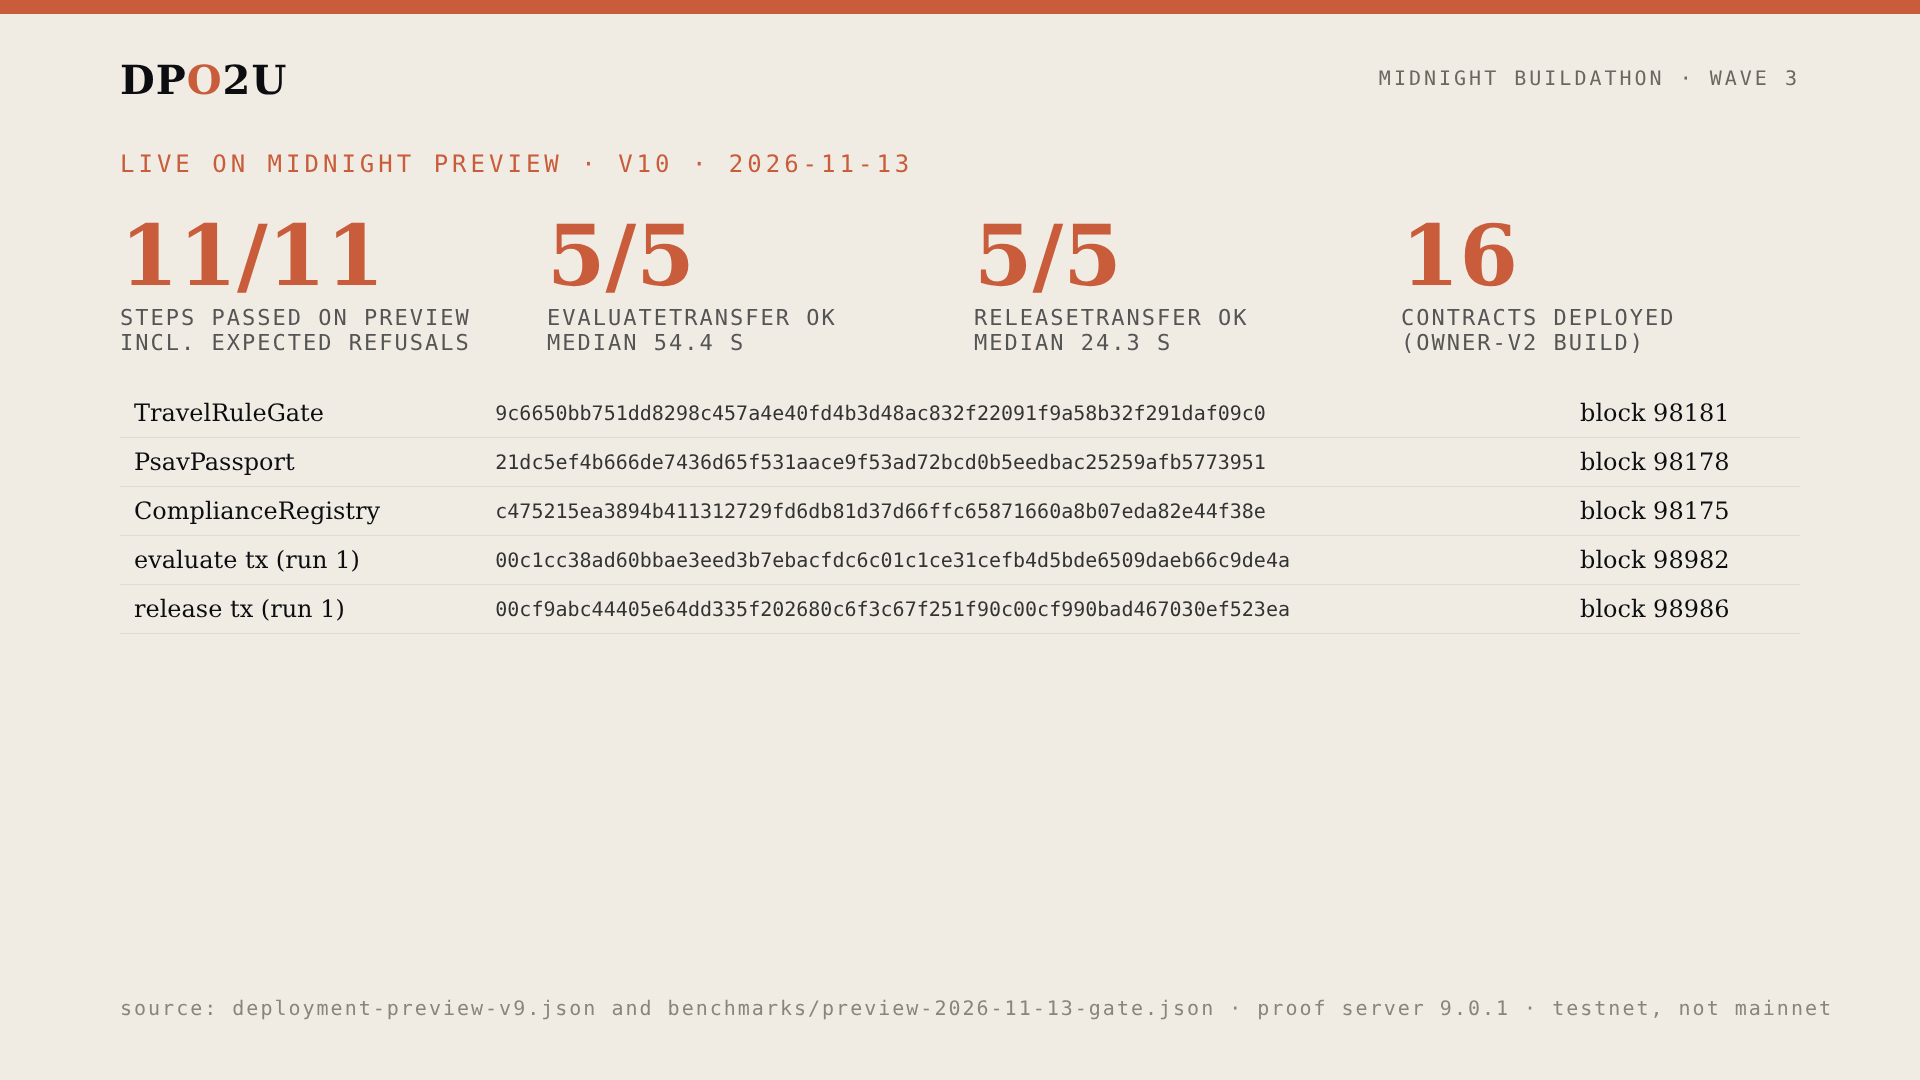
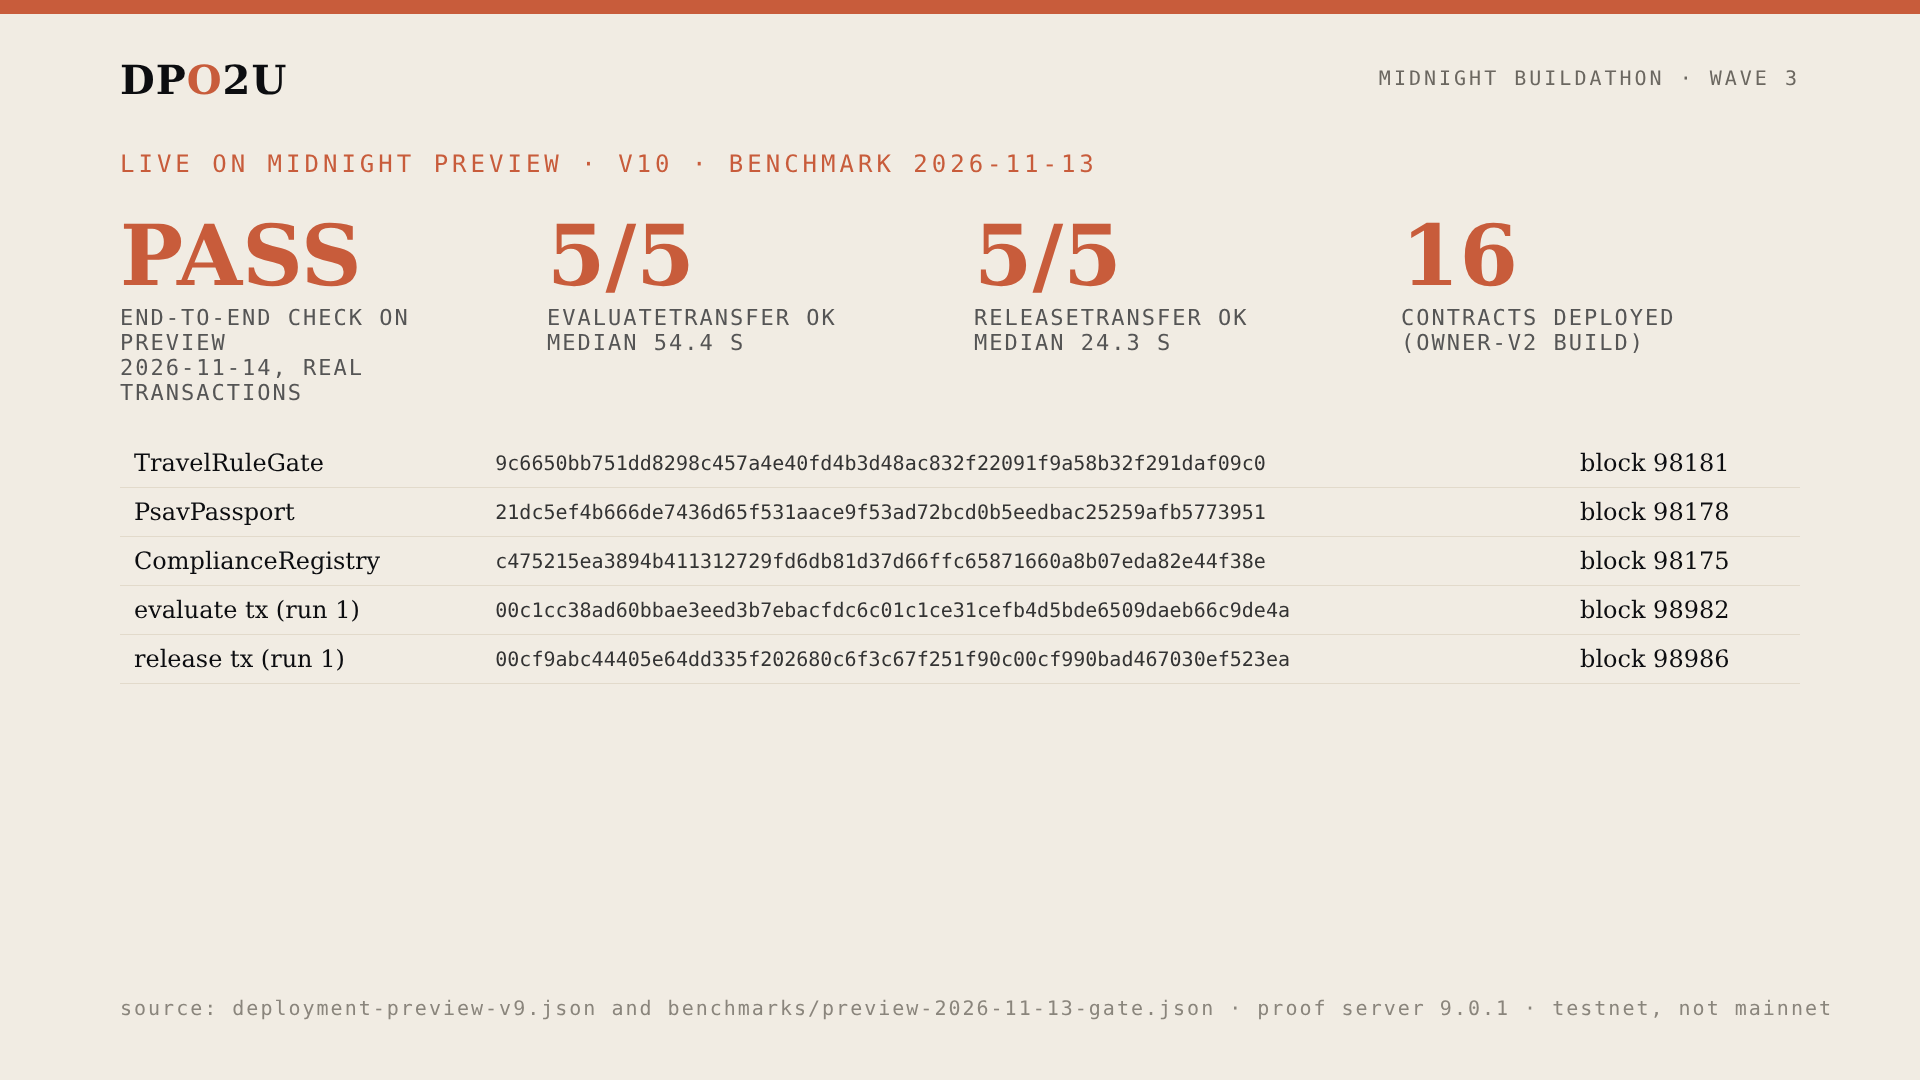
Add live-run slide and video scenes
Claude-Session: https://claude.ai/code/session_01FJgjS8z3YXB77NSybL4w1g

diff --git a/index.html b/index.html
@@ -72,7 +72,7 @@ ALL CHECKS PASSED</pre></details>
 </table></div>
 
 <div class="kicker">How it works</div>
-<div class="shots"><img src="img/03-how.png" alt="Private inputs, checks in the circuit, public ledger"><img src="img/05-release.png" alt="Release re-checks and two-key disclosure"><img src="img/04-circuit.png" alt="evaluateTransfer circuit in Compact"><img src="img/02-problem.png" alt="The problem"></div>
+<div class="shots"><img src="img/06-live-run.png" alt="End-to-end run on preview"><img src="img/03-how.png" alt="Private inputs, checks in the circuit, public ledger"><img src="img/05-release.png" alt="Release re-checks and two-key disclosure"><img src="img/04-circuit.png" alt="evaluateTransfer circuit in Compact"><img src="img/02-problem.png" alt="The problem"></div>
 
 <div class="kicker">Benchmark · 2026-11-13 · 5 runs</div>
 <div class="grid"><div class="stat"><b>5/5</b><span>evaluateTransfer ok · median 54.4 s</span></div><div class="stat"><b>5/5</b><span>releaseTransfer ok · median 24.3 s</span></div><div class="stat"><b>16</b><span>contracts deployed on preview (v10)</span></div></div>
